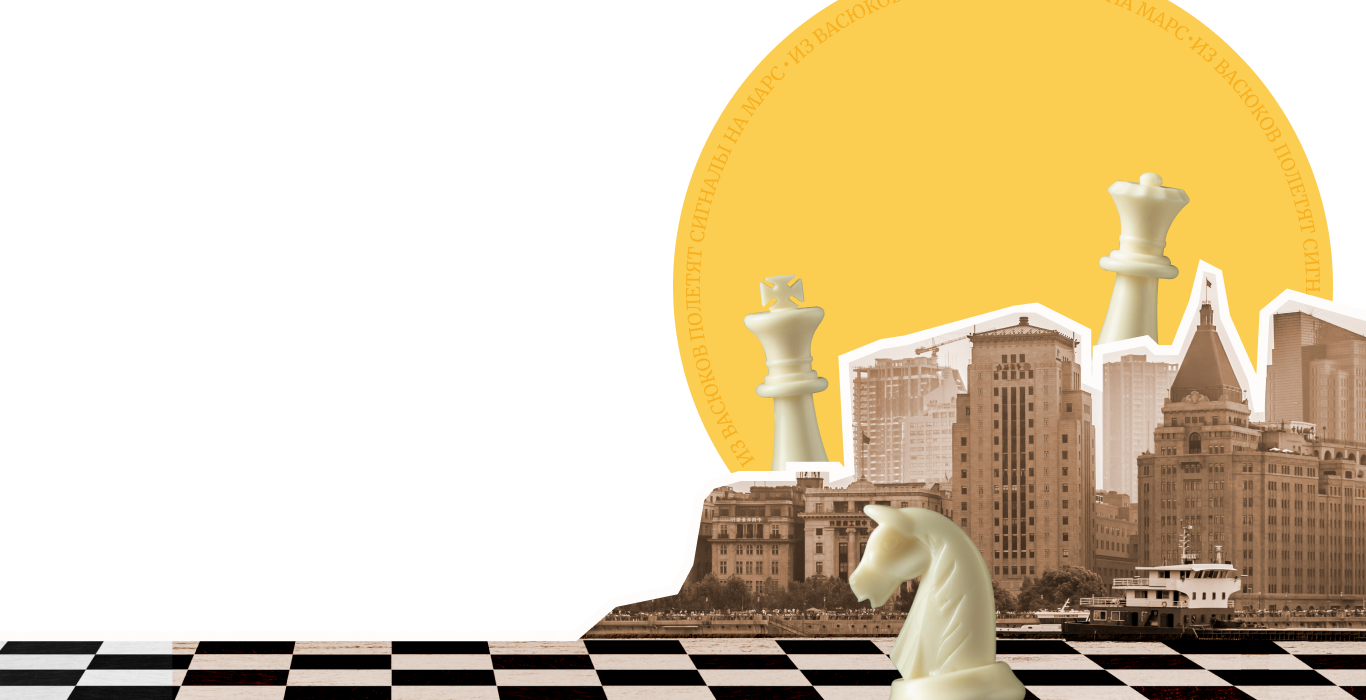
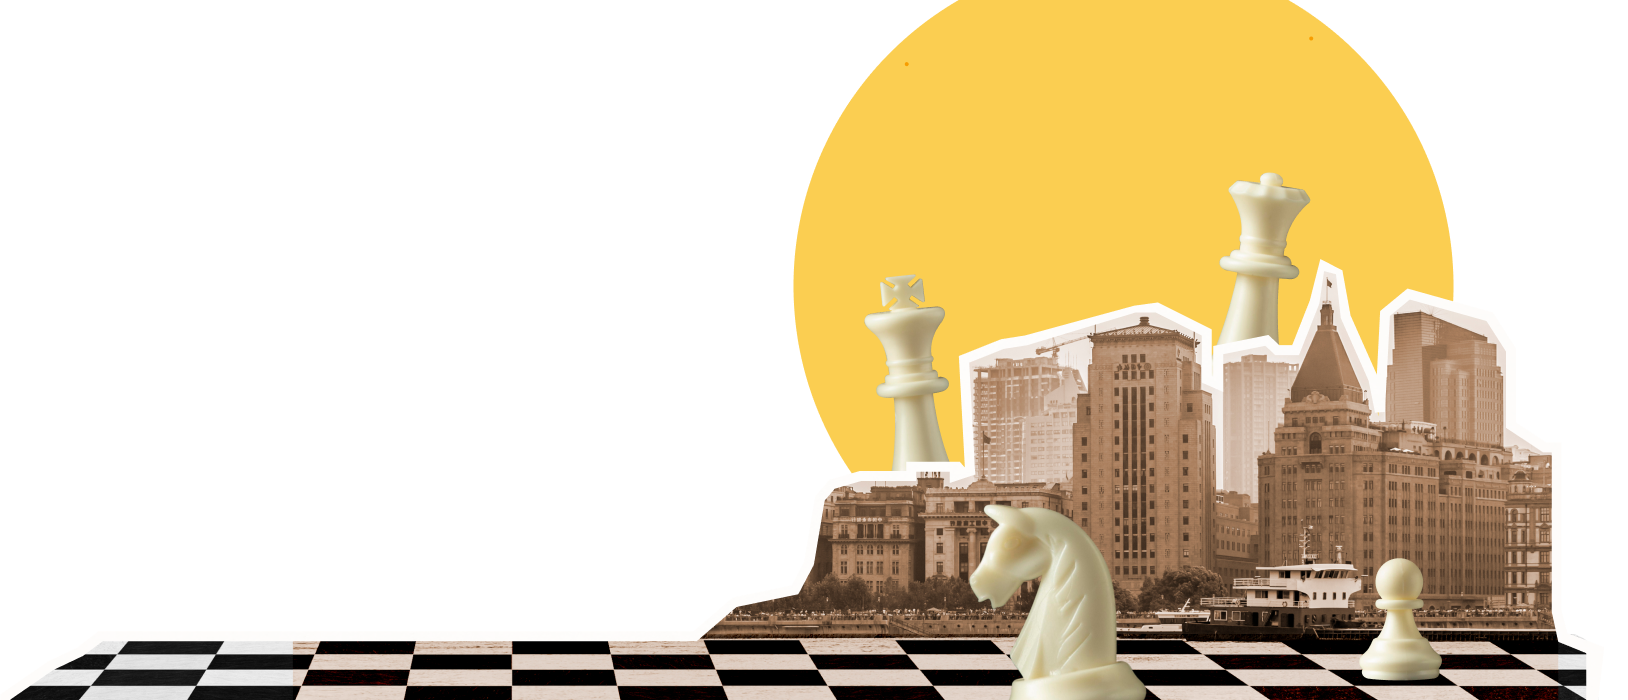
feat: доделать вёрстку секции lead

Changed region(s): [[0.0, 0.0, 1.0, 1.0]]

diff --git a/blocks/header/header.css b/blocks/header/header.css
@@ -2,19 +2,32 @@
   background-color: #e9ded4;
   position: relative;
   font-size: 0;
-  height: 65px;
+  height: 64px;
   padding: 0;
   margin: 0;
+}
+
+.header::before {
+  content: "";
+  position: absolute;
+  width: 1628px;
+  height: 700px;
+  top: 0;
+  left: 50%;
+  transform: translateX(-50%);
+  z-index: 1;
+  background-image: url("../../../images/lead-baclground-image.png");
+  background-repeat: no-repeat;
 }
 
 .header::after {
   content: "";
   position: absolute;
   width: 100%;
-  height: 881px;
+  height: 700px;
   top: 0;
   left: 0;
-  z-index: 3;
+  z-index: 2;
   background-image: url("../../../images/lead-baclground.png");
   mix-blend-mode: color-burn;
 }

diff --git a/pages/index.css b/pages/index.css
@@ -11,6 +11,7 @@
 @import url(../blocks/header/__logo/header__logo.css);
 
 @import url(../blocks/content/content.css);
+@import url(../blocks/content/__lead/content__lead.css);
 @import url(../blocks/content-wrapper/content-wrapper.css);
 @import url(../blocks/content-wrapper/_type/content-wrapper_type_header.css);
 @import url(../blocks/content-wrapper/_type/content-wrapper_type_support.css);

diff --git a/blocks/content-wrapper/_type/content-wrapper_type_header.css b/blocks/content-wrapper/_type/content-wrapper_type_header.css
@@ -3,16 +3,5 @@
   z-index: 0;
   font-size: 0;
   height: 100%;
-}
-
-.content-wrapper_type_header::before {
-  content: "";
-  position: absolute;
-  width: 100%;
-  height: 881px;
-  top: 0;
-  left: 0;
-  z-index: 1;
-  background-image: url("../../../images/lead-baclground-image.png");
-  background-repeat: no-repeat;
+  padding-top: 26px;
 }

diff --git a/index.html b/index.html
@@ -25,7 +25,7 @@
       </div>
     </header>
     <main class="content">
-      <section class="lead">
+      <section class="lead content__lead">
         <div class="content-wrapper">
           <h1 class="lead__title">
             Превратите уездный город

diff --git a/blocks/page/page.css b/blocks/page/page.css
@@ -8,4 +8,6 @@
   margin: 0 auto;
   padding: 0;
   text-rendering: optimizeLegibility;
+  display: flex;
+  flex-direction: column;
 }

diff --git a/blocks/lead/lead.css b/blocks/lead/lead.css
@@ -1,5 +1,3 @@
 .lead {
   background-color: #e9ded4;
-  padding-top: 62px;
-  box-sizing: border-box;
 }

diff --git a/blocks/stages/stages.css b/blocks/stages/stages.css
@@ -1,4 +1,5 @@
 .stages {
   position: relative;
   padding-top: 165px;
+  background-color: #fff;
 }

diff --git a/blocks/header/__logo/header__logo.css b/blocks/header/__logo/header__logo.css
@@ -3,5 +3,4 @@
   height: 36px;
   display: inline-block;
   margin: 0;
-  padding: 26px 0 0;
 }

diff --git a/blocks/content/content.css b/blocks/content/content.css
@@ -1,5 +1,4 @@
 .content {
-  background-color: #fff;
   padding: 0;
   margin: 0;
 }

diff --git a/blocks/participants/participants.css b/blocks/participants/participants.css
@@ -1,3 +1,4 @@
 .participants {
   padding-top: 200px;
+  background-color: #fff;
 }

diff --git a/blocks/support/support.css b/blocks/support/support.css
@@ -1,3 +1,4 @@
 .support {
   padding-top: 80px;
+  background-color: #fff;
 }

diff --git a/blocks/content/__lead/content__lead.css b/blocks/content/__lead/content__lead.css
@@ -1,0 +1,3 @@
+.content__lead {
+  margin-top: 62px;
+}
